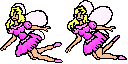
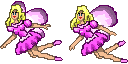
Smack Counter Pic
Funzt

diff --git a/core/src/at/aau/game/Mechanics/Entities/SmackCntPic.java b/core/src/at/aau/game/Mechanics/Entities/SmackCntPic.java
@@ -1,0 +1,64 @@
+package at.aau.game.Mechanics.Entities;
+
+import at.aau.game.Mechanics.World;
+import at.aau.game.Mechanics.Entities.MoveableObject.Movement;
+
+import com.badlogic.gdx.graphics.g2d.Animation;
+import com.badlogic.gdx.graphics.g2d.SpriteBatch;
+import com.badlogic.gdx.graphics.g2d.TextureRegion;
+import com.badlogic.gdx.math.Vector2;
+
+public class SmackCntPic extends MoveableObject{
+    private TextureRegion frame;
+	private Animation animation;
+
+	public SmackCntPic(Vector2 position, World world, Vector2 size) {
+		super(position, world, size);
+		movement = Movement.IDLE;
+		animation = world.gameplayScreen.parentGame.getAnimator().loadAnimation("gameplay/smack13.png", 0.0f, 237, 46);
+		
+	}
+
+	@Override
+	public void render(float delta, SpriteBatch spriteBatch) {
+		frame = animation.getKeyFrame(animTime, true);
+        spriteBatch.draw(frame, position.x, position.y);
+		
+	}
+	
+	public void setAnimation(int x){
+		switch(x){
+		case 0: 	animation = world.gameplayScreen.parentGame.getAnimator().loadAnimation("gameplay/smack0.png", 0.0f, 237, 46);
+					break;
+		case 1:		animation = world.gameplayScreen.parentGame.getAnimator().loadAnimation("gameplay/smack1.png", 0.0f, 237, 46);
+					break;
+		case 2:		animation = world.gameplayScreen.parentGame.getAnimator().loadAnimation("gameplay/smack2.png", 0.0f, 237, 46);
+					break;
+		case 3:		animation = world.gameplayScreen.parentGame.getAnimator().loadAnimation("gameplay/smack3.png", 0.0f, 237, 46);
+					break;
+		case 4:		animation = world.gameplayScreen.parentGame.getAnimator().loadAnimation("gameplay/smack4.png", 0.0f, 237, 46);
+					break;
+		case 5:		animation = world.gameplayScreen.parentGame.getAnimator().loadAnimation("gameplay/smack5.png", 0.0f, 237, 46);
+					break;
+		case 6:		animation = world.gameplayScreen.parentGame.getAnimator().loadAnimation("gameplay/smack6.png", 0.0f, 237, 46);
+					break;
+		case 7:		animation = world.gameplayScreen.parentGame.getAnimator().loadAnimation("gameplay/smack7.png", 0.0f, 237, 46);
+					break;
+		case 8:		animation = world.gameplayScreen.parentGame.getAnimator().loadAnimation("gameplay/smack8.png", 0.0f, 237, 46);
+					break;
+		case 9:		animation = world.gameplayScreen.parentGame.getAnimator().loadAnimation("gameplay/smack9.png", 0.0f, 237, 46);
+					break;
+		case 10:	animation = world.gameplayScreen.parentGame.getAnimator().loadAnimation("gameplay/smack10.png", 0.0f, 237, 46);
+					break;
+		case 11:	animation = world.gameplayScreen.parentGame.getAnimator().loadAnimation("gameplay/smack11.png", 0.0f, 237, 46);
+					break;
+		case 12:	animation = world.gameplayScreen.parentGame.getAnimator().loadAnimation("gameplay/smack12.png", 0.0f, 237, 46);
+					break;
+		case 13:	animation = world.gameplayScreen.parentGame.getAnimator().loadAnimation("gameplay/smack13.png", 0.0f, 237, 46);
+					break;
+		default:	System.out.println("Switch Error in Methode setAnimation() in Klasse SmackCntPic");
+		}
+	}
+	
+
+}

diff --git a/core/src/at/aau/game/PixieSmack.java b/core/src/at/aau/game/PixieSmack.java
@@ -70,7 +70,20 @@ public class PixieSmack extends ApplicationAdapter {
         assMan.load("gameplay/spritesheet.png", Texture.class);
         assMan.load("gameplay/smacker.png", Texture.class);
         assMan.load("gameplay/smacker-anim.png", Texture.class);
-
+        assMan.load("gameplay/smack0.png", Texture.class);
+        assMan.load("gameplay/smack1.png", Texture.class);
+        assMan.load("gameplay/smack2.png", Texture.class);
+        assMan.load("gameplay/smack3.png", Texture.class);
+        assMan.load("gameplay/smack4.png", Texture.class);
+        assMan.load("gameplay/smack5.png", Texture.class);
+        assMan.load("gameplay/smack6.png", Texture.class);
+        assMan.load("gameplay/smack7.png", Texture.class);
+        assMan.load("gameplay/smack8.png", Texture.class);
+        assMan.load("gameplay/smack9.png", Texture.class);
+        assMan.load("gameplay/smack10.png", Texture.class);
+        assMan.load("gameplay/smack11.png", Texture.class);
+        assMan.load("gameplay/smack12.png", Texture.class);
+        assMan.load("gameplay/smack13.png", Texture.class);
         assMan.load("gameplay/koerbchen_up.png", Texture.class);
         assMan.load("gameplay/koerbchen_down.png", Texture.class);
         assMan.load("gameplay/koerbchen_left.png", Texture.class);

diff --git a/core/src/at/aau/game/Mechanics/World.java b/core/src/at/aau/game/Mechanics/World.java
@@ -30,7 +30,8 @@ public class World {
     public int highscore;
     public String highscoreName;
     public BitmapFont highscoreBitmapFont;
-
+    public SmackCntPic smackCounterPic;
+    static Vector2 SIZE = new Vector2(237, 46);
     Koerbchen koerbchen;
     Smacker smacker;
     public Array<SmackAnim> smackAnims;
@@ -60,7 +61,9 @@ public class World {
         fairies = new Array<FairyObject>();
         smackAnims = new Array<SmackAnim>();
         this.gameplayScreen = gameplayScreen;
-
+ 
+        smackCounterPic = new SmackCntPic(new Vector2(720,40),this, SIZE);
+ 
         size = new Vector2(PixieSmack.GAME_WIDTH, PixieSmack.GAME_HEIGHT);
         pixelSize = PixieSmack.worldToPixel(size);
 
@@ -247,6 +250,9 @@ public class World {
 			smackAnim.render(delta, spriteBatch);
 		}
 		smacker.render(delta, spriteBatch);
+		smackCounterPic.render(delta, spriteBatch);
+		System.out.println(smacker.SmackCnt);
+		smackCounterPic.setAnimation(smacker.SmackCnt);
 
 		// highscoreBitmapFont.draw(spriteBatch, highscoreName, (float) (910 - ((int) (Math.log10(highscore) - 1) * 20)), 680);
 		highscoreBitmapFont.draw(spriteBatch, highScoreLayout, PixieSmack.MENU_GAME_WIDTH - 10 - highScoreLayout.width, 680);

diff --git a/core/src/at/aau/game/GameConstants.java b/core/src/at/aau/game/GameConstants.java
@@ -34,7 +34,7 @@ public class GameConstants {
 
     public static final float SMACKER_REACH = 70;
     
-    public static final float SMACK_REGENERATION_TIME = 0.5f;
+    public static final float SMACK_REGENERATION_TIME = 0.8f;
     public static final int SMACK_LIMIT = 13;
 
     public static final float TIMEOUT = 30;
